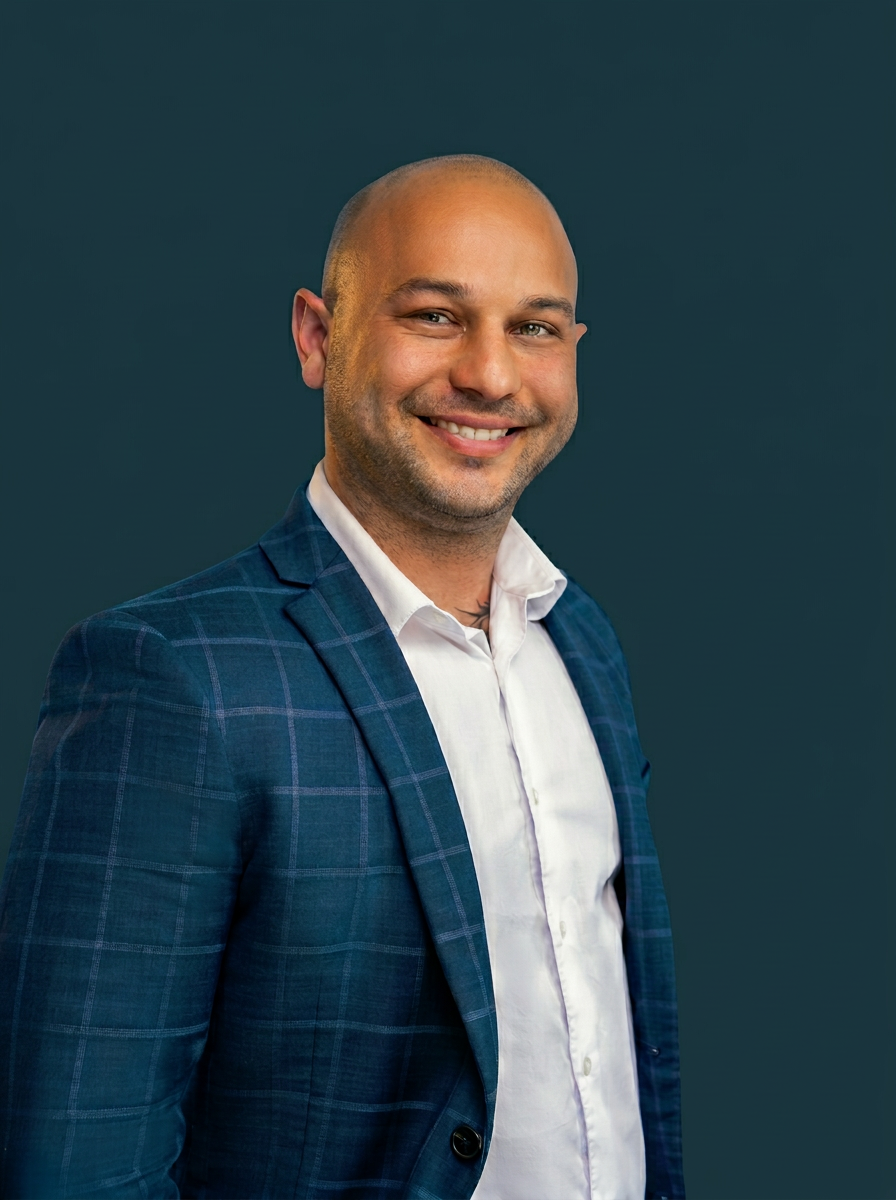
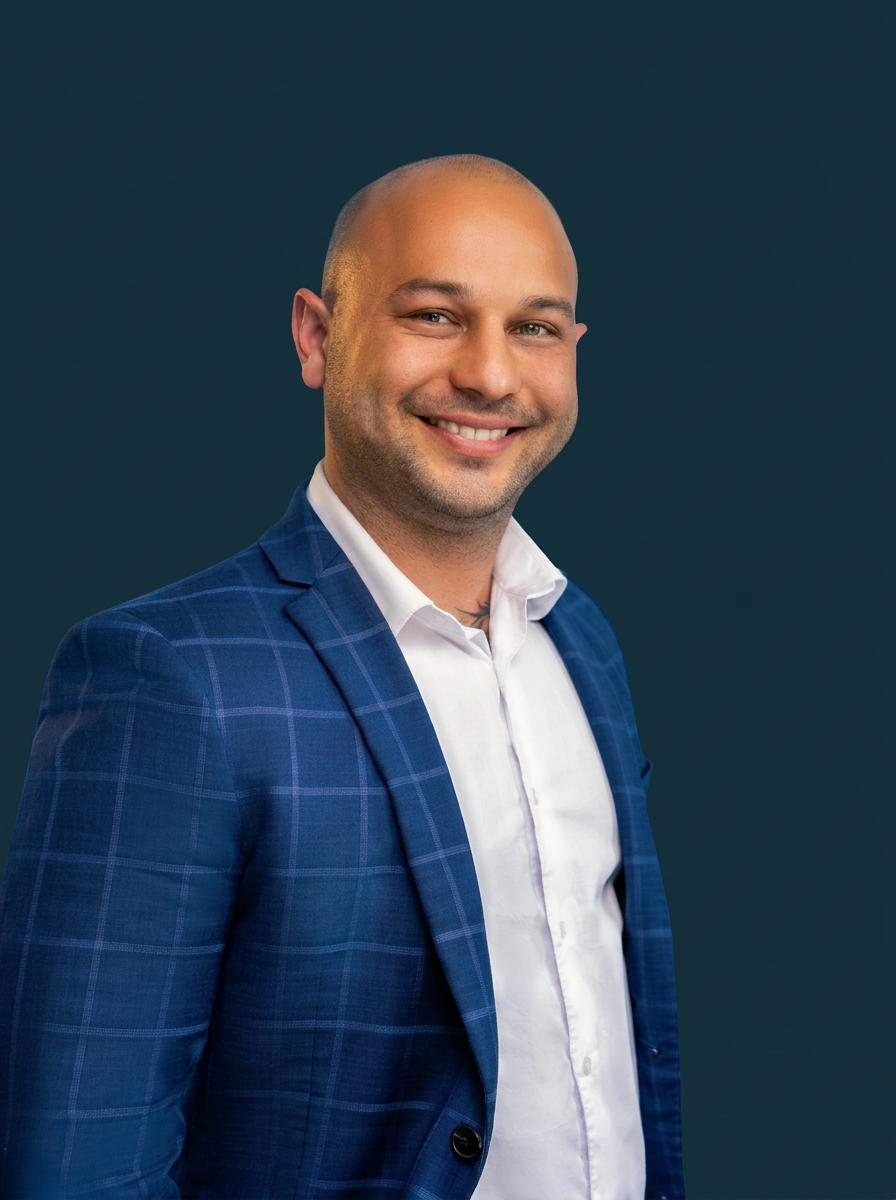
Reverted to commit 0616915301754107ed1dc824e1b6da25a4c6998c

diff --git a/src/components/HeroSection.tsx b/src/components/HeroSection.tsx
@@ -23,32 +23,25 @@ const anim = {
 
 const HeroSection = ({ overline, title, subtitle, primaryCta, secondaryCta, trustLine, compact, backgroundImage, agentImage, agentName }: HeroSectionProps) => (
   <section className="hero-gradient relative overflow-hidden">
-    {/* ── Atmospheric depth layers ── */}
-    {/* Primary atmosphere — broad warm petrol wash */}
-    <div className="absolute inset-0 bg-[radial-gradient(ellipse_120%_80%_at_50%_50%,_hsl(200_40%_18%_/_0.5)_0%,_transparent_65%)] pointer-events-none" />
-    {/* Text-side warmth — subtle ivory/gold tonal lift */}
-    <div className="absolute inset-0 bg-[radial-gradient(ellipse_45%_55%_at_18%_45%,_hsl(36_25%_30%_/_0.06)_0%,_transparent_55%)] pointer-events-none" />
-    {/* Portrait-side depth — darker anchor behind subject */}
-    <div className="absolute inset-0 bg-[radial-gradient(ellipse_50%_70%_at_78%_55%,_hsl(200_42%_12%_/_0.45)_0%,_transparent_60%)] pointer-events-none" />
-    {/* Center bridge — connects text and portrait zones */}
-    <div className="absolute inset-0 bg-[radial-gradient(ellipse_60%_40%_at_55%_50%,_hsl(200_38%_17%_/_0.25)_0%,_transparent_55%)] pointer-events-none" />
-    {/* Top vignette — softens header→hero seam */}
-    <div className="absolute inset-x-0 top-0 h-24 bg-gradient-to-b from-[hsl(200_42%_14%_/_0.5)] to-transparent pointer-events-none" />
-    {/* Bottom edge vignette */}
-    <div className="absolute inset-x-0 bottom-0 h-20 bg-gradient-to-t from-[hsl(200_42%_12%_/_0.3)] to-transparent pointer-events-none" />
-    {/* Very subtle warm accent at bottom-left */}
-    <div className="absolute inset-0 bg-[radial-gradient(ellipse_35%_30%_at_8%_85%,_hsl(36_30%_40%_/_0.04)_0%,_transparent_50%)] pointer-events-none" />
+    {/* Shared ambient lighting — unifies text + portrait */}
+    <div className="absolute inset-0 bg-[radial-gradient(ellipse_90%_70%_at_60%_45%,_hsl(200_38%_20%_/_0.4)_0%,_transparent_70%)] pointer-events-none" />
+    <div className="absolute inset-0 bg-[radial-gradient(ellipse_50%_50%_at_20%_40%,_hsl(200_30%_22%_/_0.15)_0%,_transparent_60%)] pointer-events-none" />
+    <div className="absolute inset-0 bg-[radial-gradient(ellipse_40%_60%_at_80%_35%,_hsl(200_35%_22%_/_0.2)_0%,_transparent_55%)] pointer-events-none" />
+    {/* Warm accent wash */}
+    <div className="absolute inset-0 bg-[radial-gradient(ellipse_at_bottom_left,_hsl(36_40%_50%_/_0.02)_0%,_transparent_40%)] pointer-events-none" />
+    {/* Top edge softener — blends header into hero */}
+    <div className="absolute inset-x-0 top-0 h-16 bg-gradient-to-b from-primary/30 to-transparent pointer-events-none" />
 
-    <div className={`section-container relative ${compact ? "py-14 sm:py-18 md:py-20" : agentImage ? "pt-[5.5rem] pb-0 sm:pt-[6rem] md:pt-[6.5rem]" : "pt-[4.5rem] pb-[5.5rem] sm:pt-[5rem] sm:pb-[5.5rem] md:pt-[5.5rem] md:pb-[6.5rem]"}`}>
-      <div className={`grid items-end ${agentImage ? "gap-0 md:grid-cols-[54%_46%] lg:grid-cols-[52%_48%]" : (backgroundImage ? "gap-8 md:gap-12 lg:gap-16 lg:grid-cols-[55%_45%]" : "")}`}>
+    <div className={`section-container relative ${compact ? "py-14 sm:py-18 md:py-20" : agentImage ? "pt-[5rem] pb-0 sm:pt-[5.5rem] md:pt-[6rem]" : "pt-[4.5rem] pb-[5.5rem] sm:pt-[5rem] sm:pb-[5.5rem] md:pt-[5.5rem] md:pb-[6.5rem]"}`}>
+      <div className={`grid items-end ${agentImage ? "gap-0 md:grid-cols-[52%_48%] lg:grid-cols-[50%_50%]" : (backgroundImage ? "gap-8 md:gap-12 lg:gap-16 lg:grid-cols-[55%_45%]" : "")}`}>
         {/* Text column */}
-        <motion.div className={`${(backgroundImage || agentImage) ? "" : "max-w-[40rem]"} ${agentImage ? "pb-[3.5rem] md:pb-[5rem] lg:pb-[6rem]" : ""} relative z-10`} {...anim}>
+        <motion.div className={`${(backgroundImage || agentImage) ? "" : "max-w-[40rem]"} ${agentImage ? "pb-[3.5rem] md:pb-[5.5rem] lg:pb-[6.5rem]" : ""} relative z-10`} {...anim}>
           {overline && (
-            <p className="mb-7 flex items-center gap-3 text-[0.6875rem] font-medium tracking-[0.18em] uppercase text-primary-foreground/25" style={{ fontFamily: "'Inter', sans-serif" }}>
+            <p className="mb-6 flex items-center gap-3 text-[0.75rem] font-medium tracking-[0.14em] uppercase text-primary-foreground/30" style={{ fontFamily: "'Inter', sans-serif" }}>
               {overline.includes("·") || overline.includes("•") ? (
                 overline.split(/[·•]/).map((part, i) => (
                   <span key={i} className="flex items-center gap-3">
-                    {i > 0 && <span className="inline-block h-[2.5px] w-[2.5px] rounded-full bg-accent/30" />}
+                    {i > 0 && <span className="inline-block h-[3px] w-[3px] rounded-full bg-accent/40" />}
                     <span>{part.trim()}</span>
                   </span>
                 ))
@@ -58,25 +51,25 @@ const HeroSection = ({ overline, title, subtitle, primaryCta, secondaryCta, trus
             </p>
           )}
           <h1 className="text-primary-foreground">{title}</h1>
-          <p className="mt-5 max-w-[28rem] text-[1rem] leading-[1.8] text-primary-foreground/40">
+          <p className="mt-6 max-w-[30rem] text-[1.0625rem] leading-[1.75] text-primary-foreground/45">
             {subtitle}
           </p>
           {(primaryCta || secondaryCta) && (
-            <div className="mt-9 flex flex-wrap items-center gap-3.5">
+            <div className="mt-10 flex flex-wrap items-center gap-4">
               {primaryCta && (
-                <Button size="xl" variant="accent" className="shadow-[0_6px_24px_-6px_hsl(36_35%_40%_/_0.35)] font-semibold" asChild>
+                <Button size="xl" variant="accent" className="shadow-[0_4px_20px_-4px_hsl(36_45%_48%_/_0.3)] font-semibold" asChild>
                   <Link to={primaryCta.href}>{primaryCta.label}</Link>
                 </Button>
               )}
               {secondaryCta && (
-                <Button size="xl" variant="hero-outline" className="border-primary-foreground/[0.08] text-primary-foreground/40 hover:text-primary-foreground/70 hover:border-primary-foreground/[0.16] hover:bg-primary-foreground/[0.03] backdrop-blur-sm" asChild>
+                <Button size="xl" variant="hero-outline" className="border-primary-foreground/15 text-primary-foreground/50 hover:text-primary-foreground/80 hover:border-primary-foreground/25 hover:bg-primary-foreground/[0.04]" asChild>
                   <Link to={secondaryCta.href}>{secondaryCta.label}</Link>
                 </Button>
               )}
             </div>
           )}
           {trustLine && (
-            <p className="mt-8 text-[0.8125rem] tracking-[0.02em] text-primary-foreground/18 font-medium">
+            <p className="mt-8 text-[0.8125rem] tracking-[0.02em] text-primary-foreground/20 font-medium">
               {trustLine}
             </p>
           )}
@@ -102,7 +95,7 @@ const HeroSection = ({ overline, title, subtitle, primaryCta, secondaryCta, trus
           </motion.div>
         )}
 
-        {/* Agent portrait — embedded into hero atmosphere */}
+        {/* Agent portrait — fully integrated into hero */}
         {agentImage && (
           <motion.div
             className="hidden md:flex justify-end items-end self-end relative"
@@ -110,22 +103,20 @@ const HeroSection = ({ overline, title, subtitle, primaryCta, secondaryCta, trus
             animate={{ opacity: 1, y: 0 }}
             transition={{ duration: 0.9, ease: [0.22, 1, 0.36, 1], delay: 0.1 }}
           >
-            {/* Deep ambient glow behind the subject */}
-            <div className="absolute bottom-[10%] right-[15%] w-[70%] h-[60%] bg-[radial-gradient(ellipse,_hsl(200_38%_20%_/_0.5)_0%,_transparent_65%)] pointer-events-none blur-3xl" />
-            {/* Warm highlight glow — subtle face-level warmth */}
-            <div className="absolute top-[20%] right-[25%] w-[40%] h-[30%] bg-[radial-gradient(ellipse,_hsl(36_20%_40%_/_0.04)_0%,_transparent_60%)] pointer-events-none blur-2xl" />
+            {/* Soft glow behind subject */}
+            <div className="absolute bottom-[15%] right-[20%] w-[60%] h-[50%] bg-[radial-gradient(ellipse,_hsl(200_35%_22%_/_0.4)_0%,_transparent_70%)] pointer-events-none blur-2xl" />
             
-            {/* Portrait with deep edge dissolution */}
+            {/* Portrait with aggressive edge masking */}
             <div className="relative" style={{
-              maskImage: 'linear-gradient(to right, transparent 0%, black 35%), linear-gradient(to left, transparent 0%, black 5%), linear-gradient(to bottom, transparent 0%, black 18%), linear-gradient(to top, transparent 0%, black 3%)',
-              WebkitMaskImage: 'linear-gradient(to right, transparent 0%, black 35%), linear-gradient(to left, transparent 0%, black 5%), linear-gradient(to bottom, transparent 0%, black 18%), linear-gradient(to top, transparent 0%, black 3%)',
+              maskImage: 'linear-gradient(to right, transparent 0%, black 30%), linear-gradient(to left, transparent 0%, black 8%), linear-gradient(to bottom, transparent 0%, black 15%), linear-gradient(to top, transparent 0%, black 4%)',
+              WebkitMaskImage: 'linear-gradient(to right, transparent 0%, black 30%), linear-gradient(to left, transparent 0%, black 8%), linear-gradient(to bottom, transparent 0%, black 15%), linear-gradient(to top, transparent 0%, black 4%)',
               maskComposite: 'intersect',
               WebkitMaskComposite: 'destination-in',
             }}>
               <img
                 src={agentImage}
                 alt={agentName || ""}
-                className="w-full max-w-[440px] lg:max-w-[500px] xl:max-w-[560px] 2xl:max-w-[600px] object-contain object-bottom"
+                className="w-full max-w-[420px] lg:max-w-[480px] xl:max-w-[540px] 2xl:max-w-[580px] object-contain object-bottom"
                 loading="eager"
               />
             </div>
@@ -141,15 +132,15 @@ const HeroSection = ({ overline, title, subtitle, primaryCta, secondaryCta, trus
             transition={{ duration: 0.6, ease: [0.22, 1, 0.36, 1], delay: 0.2 }}
           >
             <div style={{
-              maskImage: 'linear-gradient(to bottom, transparent 0%, black 15%), linear-gradient(to left, transparent 0%, black 8%), linear-gradient(to right, transparent 0%, black 8%)',
-              WebkitMaskImage: 'linear-gradient(to bottom, transparent 0%, black 15%), linear-gradient(to left, transparent 0%, black 8%), linear-gradient(to right, transparent 0%, black 8%)',
+              maskImage: 'linear-gradient(to bottom, transparent 0%, black 12%), linear-gradient(to left, transparent 0%, black 10%), linear-gradient(to right, transparent 0%, black 10%)',
+              WebkitMaskImage: 'linear-gradient(to bottom, transparent 0%, black 12%), linear-gradient(to left, transparent 0%, black 10%), linear-gradient(to right, transparent 0%, black 10%)',
               maskComposite: 'intersect',
               WebkitMaskComposite: 'destination-in',
             }}>
               <img
                 src={agentImage}
                 alt={agentName || ""}
-                className="w-[280px] sm:w-[320px] object-contain object-bottom"
+                className="w-[300px] sm:w-[340px] object-contain object-bottom"
                 loading="eager"
               />
             </div>

diff --git a/src/components/SiteHeader.tsx b/src/components/SiteHeader.tsx
@@ -177,7 +177,7 @@ const SiteHeader = () => {
       className={`sticky top-0 z-50 backdrop-blur-xl transition-all duration-300 ${
         scrolled
           ? "bg-background/98 supports-[backdrop-filter]:bg-background/90 shadow-[0_1px_8px_-3px_hsl(200_30%_14%/0.06)] border-b border-border/30"
-          : "bg-[hsl(42_18%_97%)] border-b border-border/[0.04]"
+          : "bg-[hsl(40_15%_98%)] border-b border-border/[0.06]"
       }`}
     >
       {/* ─── Desktop (lg+) ─── */}

diff --git a/src/index.css b/src/index.css
@@ -24,7 +24,7 @@
     --muted: 200 8% 94%;
     --muted-foreground: 200 8% 44%;
 
-    --accent: 36 32% 44%;
+    --accent: 36 38% 46%;
     --accent-foreground: 200 42% 16%;
 
     --destructive: 0 84.2% 60.2%;
